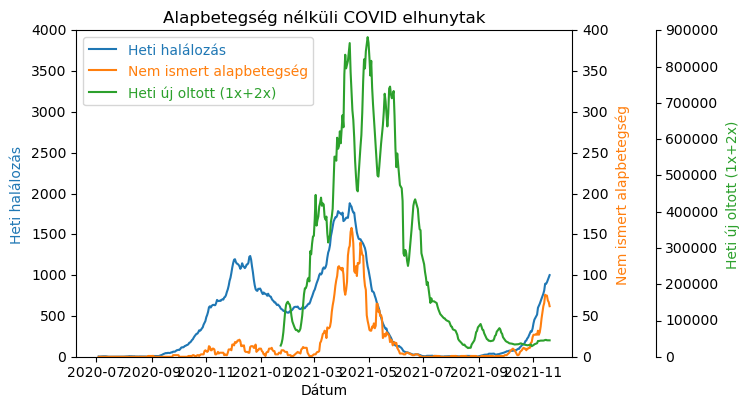
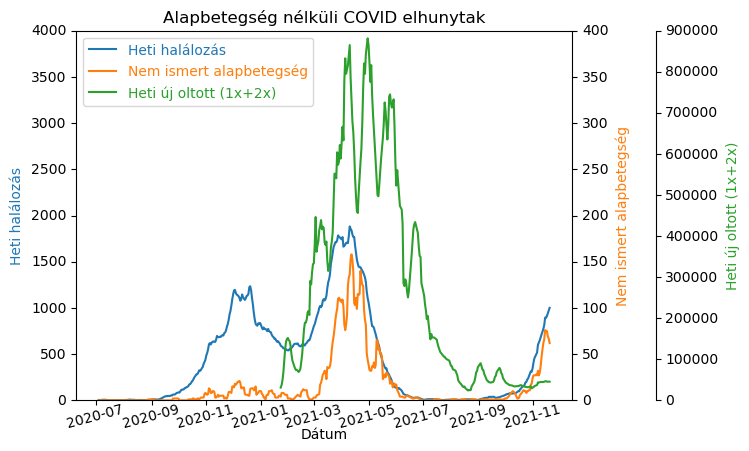
Javítás: cimke forgatás

diff --git a/kép_alapbetegség_nélküli_elhunytak.py b/kép_alapbetegség_nélküli_elhunytak.py
@@ -54,6 +54,7 @@ host.set_ylabel("Heti halálozás")
 host.set_ylim([0, 4000])
 host.axis[:].major_ticks.set_tick_out(True)
 host.axis["top"].major_ticks.set_visible(False)
+host.axis["bottom"].major_ticklabels.set_rotation(15)
 par1.set_ylabel("Nem ismert alapbetegség")
 par1.set_ylim([0, 400])
 par1.axis[:].major_ticks.set_tick_out(True)
@@ -76,7 +77,5 @@ leg.texts[1].set_color(p2.get_color())
 par2.yaxis.get_label().set_color(p3.get_color())
 leg.texts[2].set_color(p3.get_color())
 
-
 fig = host.get_figure()
-fig.autofmt_xdate()
 fig.savefig(BASEDIR + "/képek/NemIsmertAlapbetegség.png", bbox_inches = "tight", dpi = 100)
